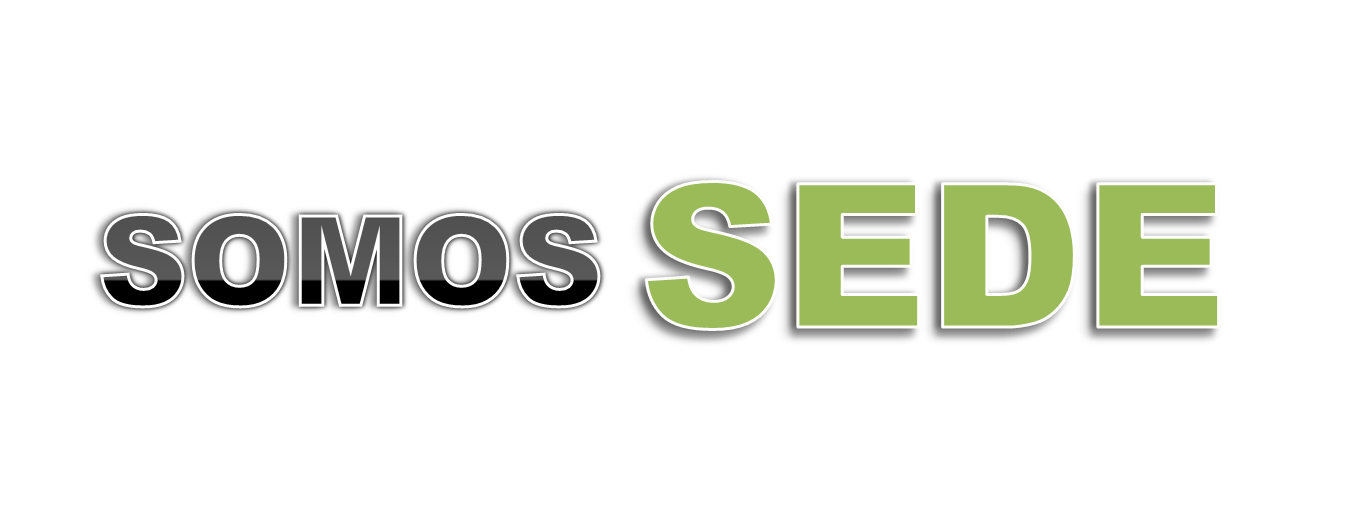
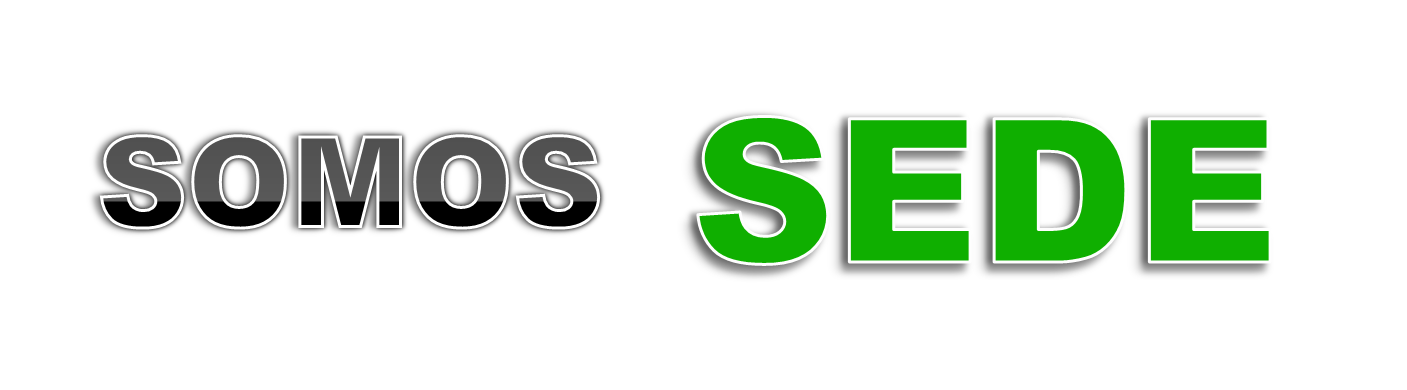
Modificando algunas cosas

Changed region(s): [[0.062, 0.2769, 0.8989, 0.7077]]

diff --git a/app/Controllers/Http/DisciplinaController.js b/app/Controllers/Http/DisciplinaController.js
@@ -4,7 +4,7 @@ class DisciplinaController {
     async addDisciple({request, session, response}){
         const disc= await Disc.create({
             name: request.input('name'),
-            class: request.input('clase'),
+            clase: request.input('clase'),
         })
         try {
             await disc.save()

diff --git a/public/style.css b/public/style.css
@@ -70,7 +70,7 @@
 #title span{
   text-shadow:  2px 2px rgba(0, 0, 0, 0.849);
   font-size: 200% ;
-  color: rgb(11, 196, 104);
+  color: rgb(15, 175, 0);
 }
 /* Modal Content */
 .modal-content {
